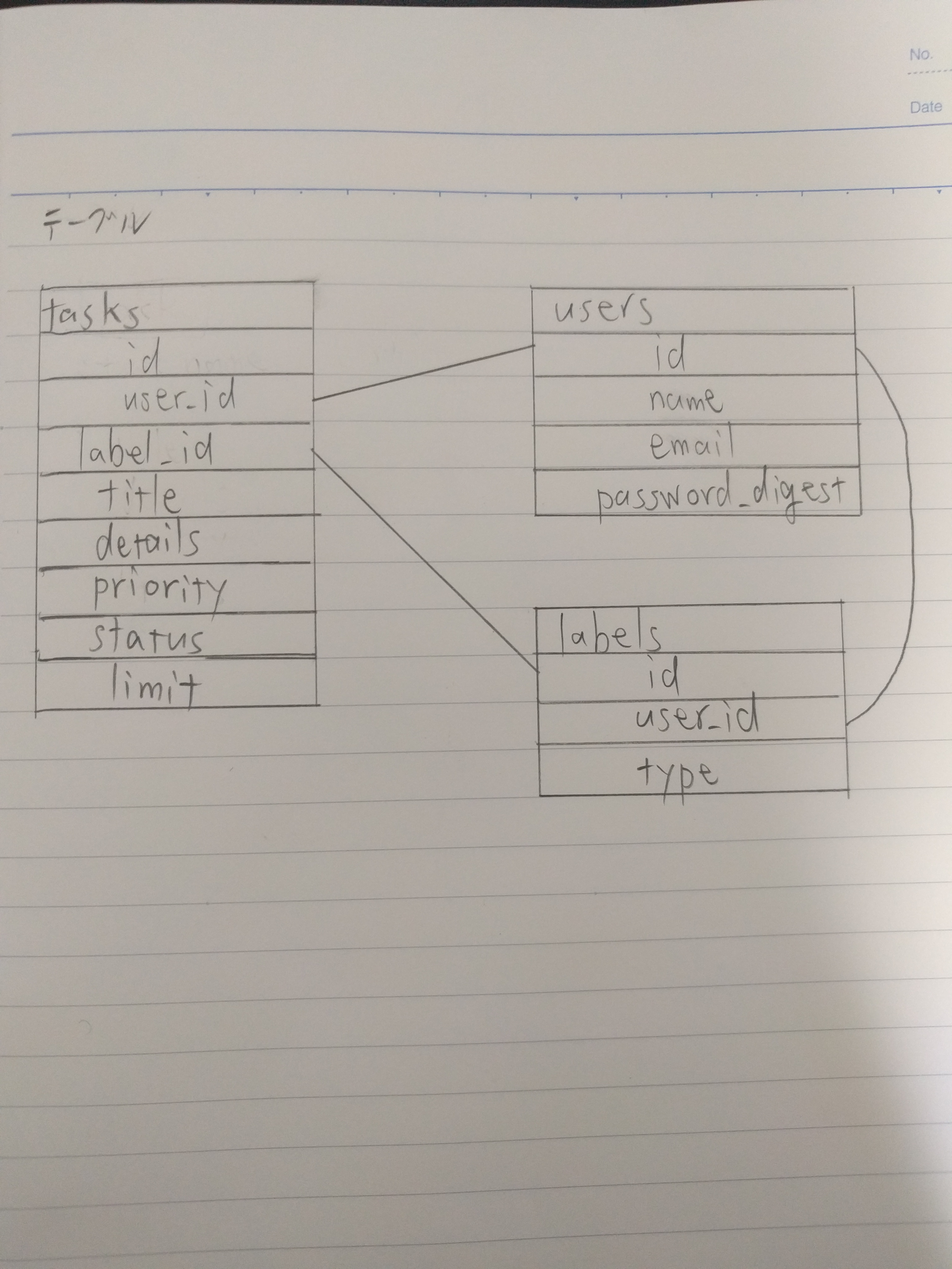
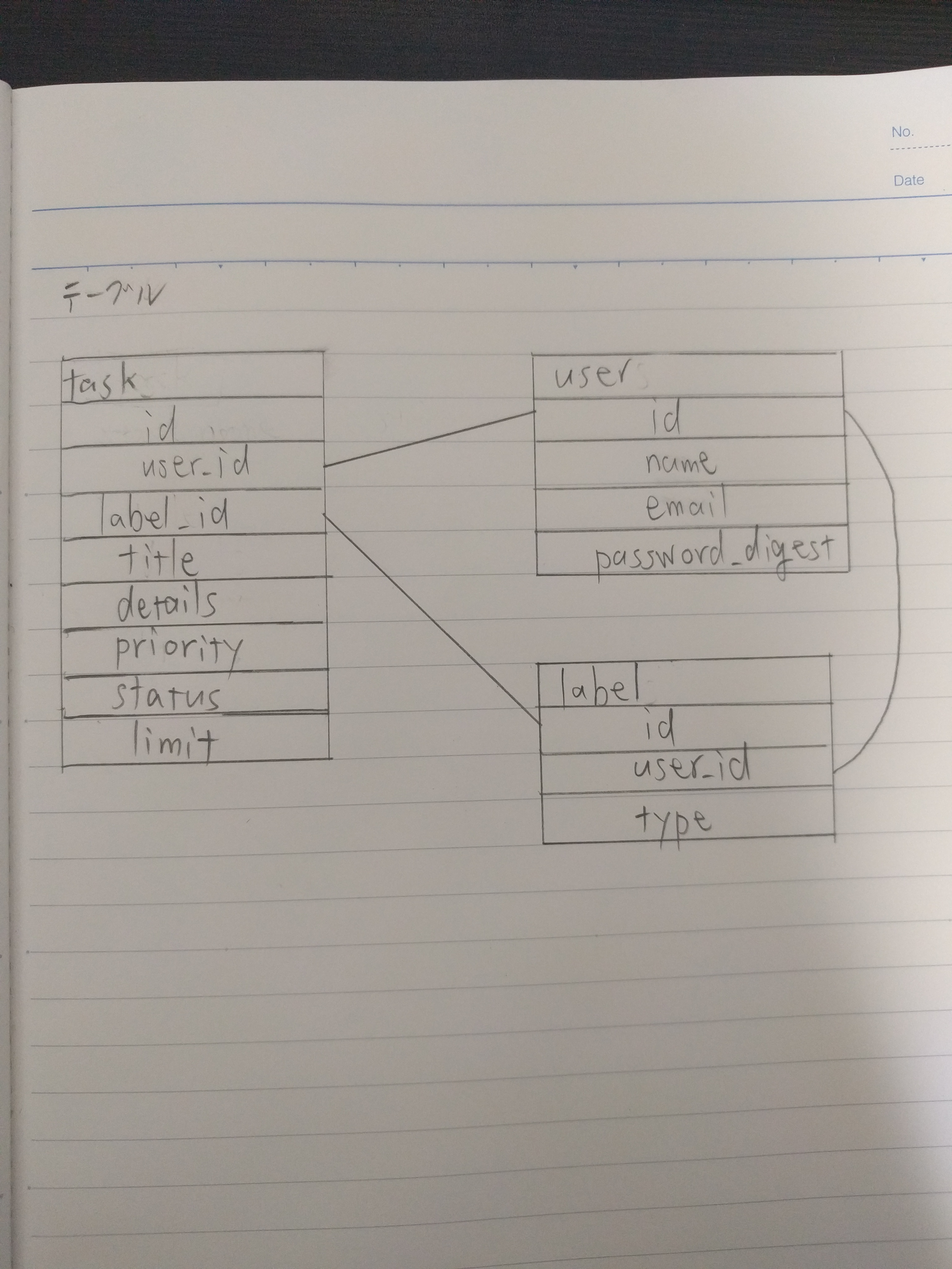
002_gem_install_and_db_create

diff --git a/README.md b/README.md
@@ -1,4 +1,4 @@
-- tasks
+- task
   - id integer
   - user_id integer
   - label_id integer
@@ -8,13 +8,13 @@
   - status string
   - limit date
 
-- users
+- user
   - id integer
   - name string
   - email string
   - password_digest string
 
-- labels
+- label
   - id integer
   - user_id integer
   - type string
